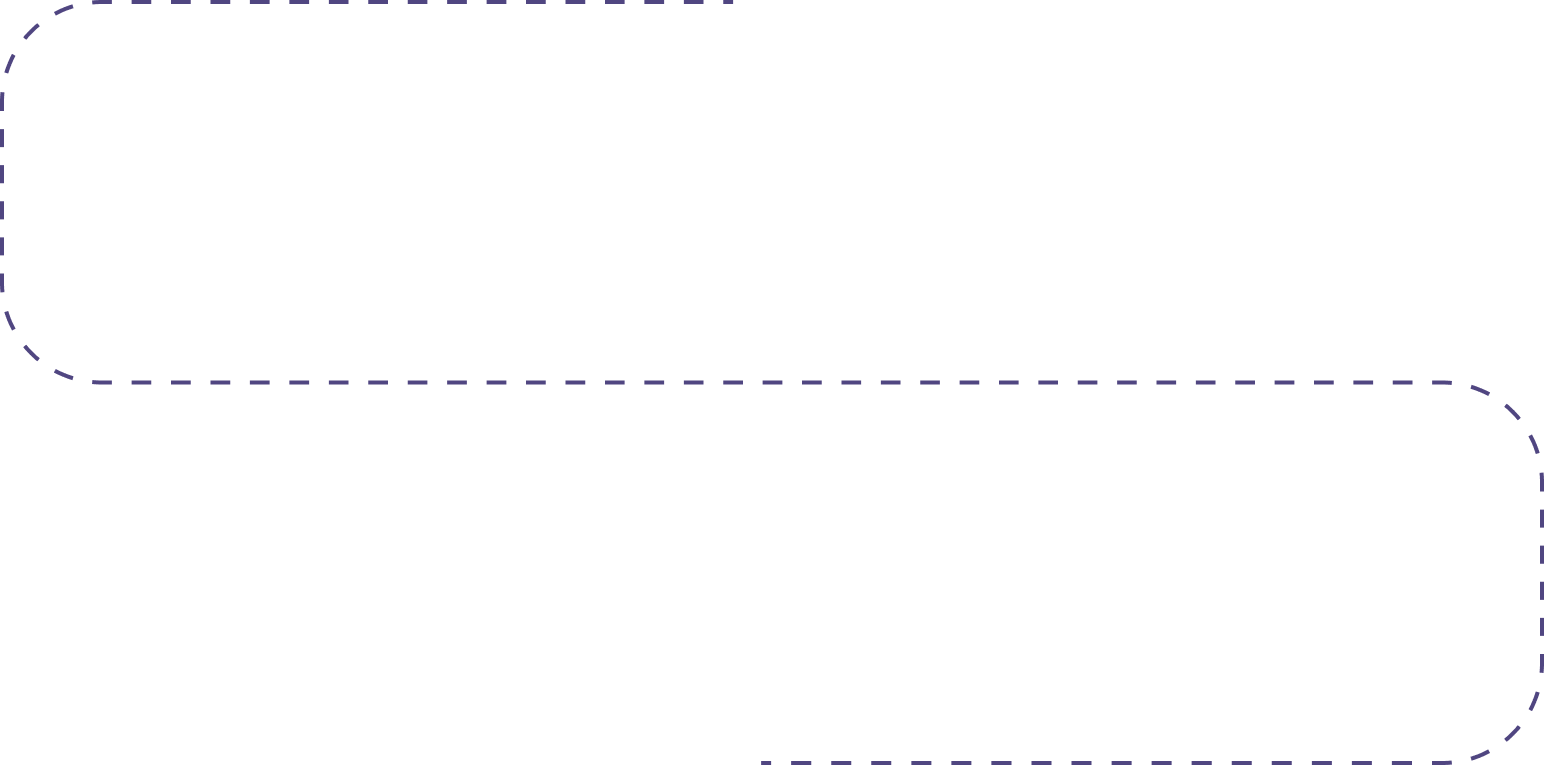
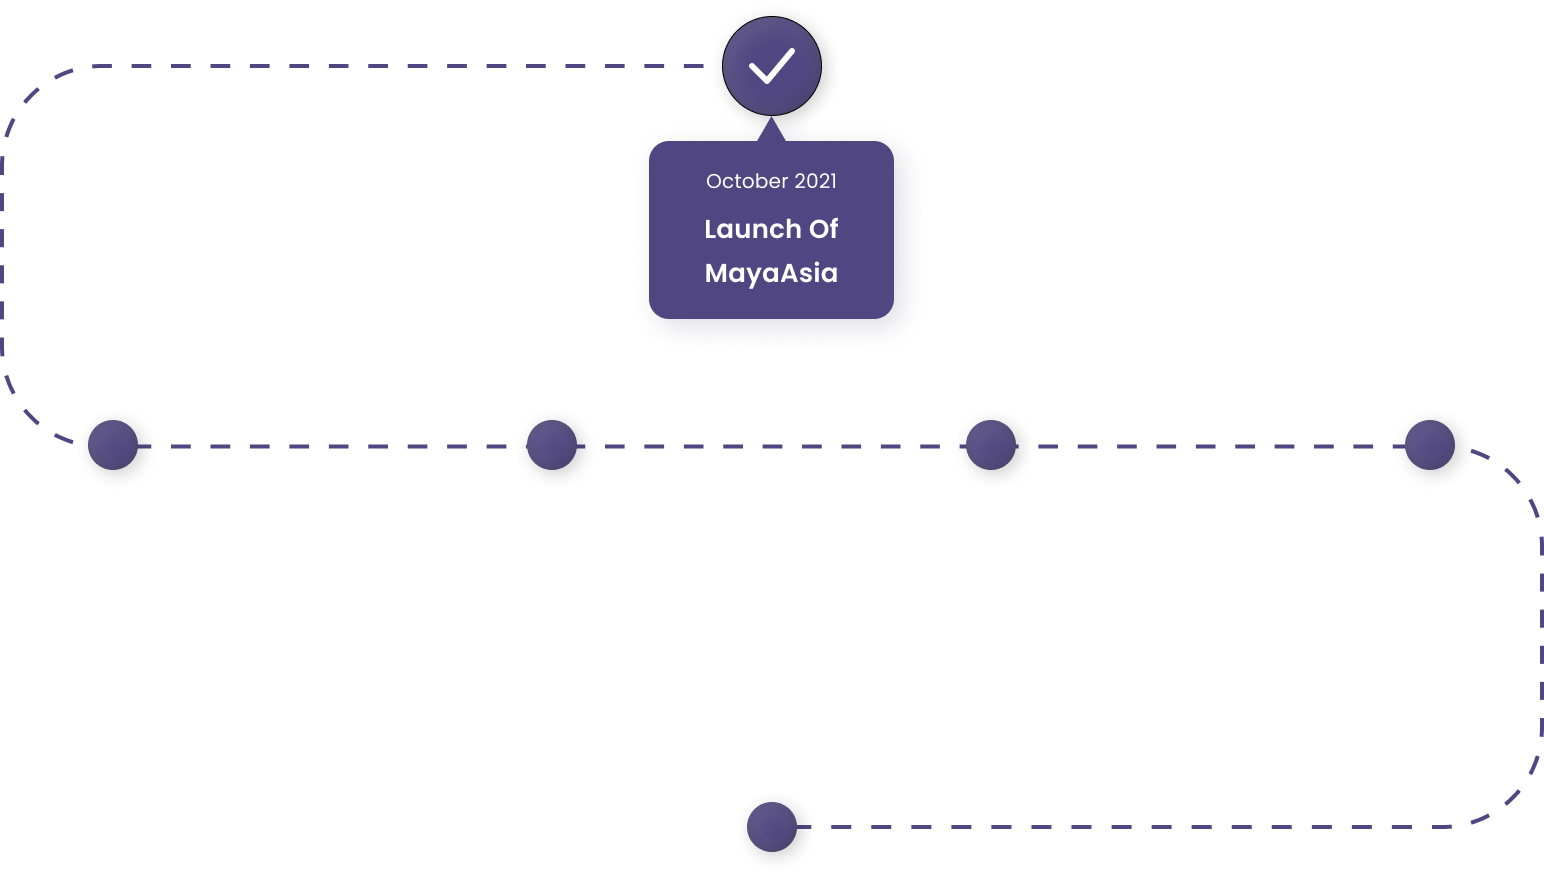
add positioning

diff --git a/frontend/index.html b/frontend/index.html
@@ -8,6 +8,13 @@
   <script src="https://cdn.tailwindcss.com"></script>
   <link rel="stylesheet" href="https://cdnjs.cloudflare.com/ajax/libs/font-awesome/5.13.0/css/all.min.css">
   <link href="https://fonts.googleapis.com/css2?family=Poppins&display=swap" rel="stylesheet">
+  <style>
+@media only screen and (max-width: 1450px) {
+    .sectiontwo{
+        background: none !important;
+    }
+}
+  </style>
 </head>
 <body>
 <section class="w-[100%]">
@@ -27,11 +34,11 @@
    </header>
    <main class="flex justify-center items-start w-[90%] m-[auto]">
      <div class="lg:flex-[40%] max-w-[731px]">
-<h1 class="lg:text-[50px] xlg:text-[74px] leading-[90px] mt-[120px] font-bold  font-[Poppins] ">Lorem ipsum dolor <br><span class="text-[#6433C4]">amet consectetur</span> <br>adipiscing elit.</h1>
+<h1 class="lg:text-[50px] xl:text-[74px] leading-[90px] mt-[120px] font-bold  font-[Poppins] ">Lorem ipsum dolor <br><span class="text-[#6433C4]">amet consectetur</span> <br>adipiscing elit.</h1>
 <p class="text-[20px] max-w-[731px] text-[#999999]">Lorem ipsum dolor sit amet, consectetur adipiscing elit. Ac amet, cursus tincidunt nullam ultricies dui elementum augue. Nunc fringilla risus molestie magna pretium neque tincidunt sed hendrerit. </p>
 <div class="flex mt-[100px]">
-  <button class="bg-[#6433C4] text-[16px] xlg:text-[20px] text-[#fff] font-[Poppins]  h-[50px] w-[200px] xlg:h-[70px] xlg:w-[267px] rounded-[10px]">Request for IDO</button>
-  <button class="flex justify-center items-center bg-[#fff] h-[50px] w-[200px] xlg:h-[70px] xlg:w-[267px] rounded"><div class="flex justify-center items-center h-[40px] w-[40px] xlg:h-[60px] xlg:w-[60px] border-2 border-[#000] rounded-[100px] mr-[20px]">
+  <button class="bg-[#6433C4] text-[16px] xl:text-[20px] text-[#fff] font-[Poppins]  h-[50px] w-[200px] xl:h-[70px] xl:w-[267px] rounded-[10px]">Request for IDO</button>
+  <button class="flex justify-center items-center bg-[#fff] h-[50px] w-[200px] xl:h-[70px] xl:w-[267px] rounded"><div class="flex justify-center items-center h-[40px] w-[40px] xl:h-[60px] xl:w-[60px] border-2 border-[#000] rounded-[100px] mr-[20px]">
   <i class="fa fa-play" aria-hidden="true"></i></div>
   Watch Demo
 </button>
@@ -40,28 +47,27 @@
      <div class="flex justify-center items-center">
        
        <img class="max-h-[700px] lg:max-h-[800px]  ml-[-40px]" src="./imgs/doctor.png" />
-       <div class="">
-         <div class="flex justify-center items-center mb-[60px] ">
-        <img class="mr-[10px]" src="./imgs/main1.png" />
+       <div class="mr-[10px] font-[Poppins] xl:flex flex-col justify-center items-start hidden">
+         <div class="flex justify-center items-center mb-10 max-w-[300px] ">
+        <img class="mr-[10px]  h-[90px] w-[90px]" src="./imgs/main1.png" />
         <span>
-        <p class="text-[30px] xlg:text-[40px] font-bold">900k +</p>
-        <span class="text-[16px] xlg:text-[21px] text-[#999999]">Lorem ipsum dolor sit</span>
+        <p class="text-[30px] xl:text-[30px] font-bold">900k +</p>
+        <span class=" text-[16px] xl:text-[18px] text-[#999999]">Lorem ipsum dolor sit</span>
       </span>
       </div>
 
-      <div class="flex justify-center items-center mb-[60px]">
-        <img class="mr-[10px]" src="./imgs/main1.png" />
+      <div class="flex justify-center items-center mb-10 max-w-[300px] ">
+        <img class="mr-[10px] h-[90px] w-[90px]" src="./imgs/main2.png" />
         <span>
-        <p class="text-[30px] xlg:text-[40px] font-bold">900k +</p>
-        <span class="text-[16px] xlg:text-[21px] text-[#999999]">Lorem ipsum dolor sit</span>
+        <p class="text-[30px] xl:text-[30px] font-bold">2k +</p>
+        <span class=" text-[16px] xl:text-[18px] text-[#999999]">Lorem ipsum </span>
       </span>
       </div>
-
-      <div class="flex justify-center items-center mb-[60px]">
-        <img class="mr-[10px]" src="./imgs/main1.png" />
+      <div class="flex justify-between items-center mb-10 max-w-[300px] ">
+        <img class="mr-[10px]  h-[90px] w-[90px]" src="./imgs/main1.png" />
         <span>
-        <p class="text-[30px] xlg:text-[40px] font-bold">900k +</p>
-        <span class="text-[16px] xlg:text-[21px] text-[#999999]">Lorem ipsum dolor sit</span>
+        <p class="text-[30px] xl:text-[30px] font-bold">900k +</p>
+        <span class=" text-[16px] xl:text-[18px] text-[#999999]">Lorem ipsum dolor sit</span>
       </span>
       </div>
 
@@ -70,33 +76,45 @@
    </main>
   </section>
 
-  <section>
+  <section >
     <div class="flex flex-col justify-center items-center">
     <h1 class="text-[40px] font-[Poppins] mt-[100px] lg:text-[60px] font-bold text-center">World’s number 1 blockchain<br> for healthcare    </h1>
-    <p class="lg:max-w-[800px] xlg:max-w-[1200px] text-[#999999] text-center">Lorem ipsum dolor sit amet, consectetur adipiscing elit. Dapibus ipsum ligula risus metus. Suspendisse consectetur posuere auctor mauris. In proin amet tempor luctus eu, ut cras aliquam. </p>
-    <button class="bg-[#6433C4] text-[16px] xlg:text-[20px] text-[#fff] font-[Poppins] mt-[30px]  h-[50px] w-[200px] xlg:h-[70px] xlg:w-[267px] rounded-[10px]">Request for IDO</button>
+    <p class="lg:max-w-[800px] xl:max-w-[1200px] text-[#999999] text-center">Lorem ipsum dolor sit amet, consectetur adipiscing elit. Dapibus ipsum ligula risus metus. Suspendisse consectetur posuere auctor mauris. In proin amet tempor luctus eu, ut cras aliquam. </p>
+    <button class="bg-[#6433C4] text-[16px] xl:text-[20px] text-[#fff] font-[Poppins] mt-[30px]  h-[50px] w-[200px] xl:h-[70px] xl:w-[267px] rounded-[10px]">Request for IDO</button>
   </div>
 
-  <div class="flex justify-between items-center ml-[20px] mr-[20px]">
-  <div class="flex flex-col justify-center items-center max-w-[395px]">
-    <img src="./imgs//sectiontwo1.png" />
-    <h2 class="text-[30px] xlg:text-[40px] font-bold">
+  <div class="flex justify-between items-center bg-no-repeat  bg-center max-w-[87%] m-[auto] sectiontwo" style="background-image: url('./imgs/p.png');">
+  <div class="flex flex-col justify-center items-center max-w-[395px] mt-[-50px] pr-[10px] lg:pr-[5px]  xl:pr-0 ">
+    <img class="" src="./imgs//sectiontwo1.png" />
+    <div class="flex flex-col justify-around items-center h-[150px] w-[220px] mt-[-50px] rounded-[20px]" style="background: rgba(0, 0, 0, 0.1);
+    backdrop-filter: blur(30px);">
+<h2 class="text-[18px] font-bold text-center font-[Poppins]">Everyday Data</h2>
+  <img src="./imgs/gr2.png" />  
+  </div>
+    <h2 class="text-[30px] xl:text-[40px] font-bold">
       Doctors
+    </h2>
+    
+    <p class="text-[18px] text-center">Lorem ipsum dolor sit amet, consectetur adipiscing elit. Euismod faucibus commodo cum facilisis tellus tempus. Penatibus elit condimentum id accumsan imperdiet. </p>
+  </div>
+
+  <div class="flex flex-col justify-center items-center max-w-[395px] pr-[10px] lg:pr-[5px]  xl:pr-0 ">
+    <img class="mt-[150px]" src="./imgs/section22.png" />
+    
+    <h2 class="text-[30px] xl:text-[40px] mt-[60px] font-bold">
+      Platform
     </h2>
     <p class="text-[18px] text-center">Lorem ipsum dolor sit amet, consectetur adipiscing elit. Euismod faucibus commodo cum facilisis tellus tempus. Penatibus elit condimentum id accumsan imperdiet. </p>
   </div>
 
-  <div class="flex flex-col justify-center items-center max-w-[395px] ">
-    <img class="mt-[150px]" src="./imgs//sectiontwo1.png" />
-    <h2 class="text-[30px] xlg:text-[40px] font-bold">
-      Doctors
-    </h2>
-    <p class="text-[18px] text-center">Lorem ipsum dolor sit amet, consectetur adipiscing elit. Euismod faucibus commodo cum facilisis tellus tempus. Penatibus elit condimentum id accumsan imperdiet. </p>
-  </div>
-
-  <div class="flex flex-col justify-center items-center max-w-[395px]">
+  <div class="flex flex-col justify-center items-center max-w-[395px] mt-[-50px] ">
     <img src="./imgs//sectiontwo1.png" />
-    <h2 class="text-[30px] xlg:text-[40px] font-bold">
+    <div class="flex flex-col justify-around items-center h-[150px] w-[220px] mt-[-50px] rounded-[20px]" style="background: rgba(0, 0, 0, 0.1);
+    backdrop-filter: blur(30px);">
+<h2 class="text-[18px] font-bold text-center font-[Poppins]">Everyday Data</h2>
+  <img src="./imgs/gr2.png" />  
+  </div>
+    <h2 class="text-[30px] xl:text-[40px] font-bold">
       Doctors
     </h2>
     <p class="text-[18px] text-center">Lorem ipsum dolor sit amet, consectetur adipiscing elit. Euismod faucibus commodo cum facilisis tellus tempus. Penatibus elit condimentum id accumsan imperdiet. </p>
@@ -105,7 +123,7 @@
 
   </section>
 
-  <section class="flex justify-around h-[800px] bg-[#000] mt-[100px] bg-no-repeat bg-center" style="background-image: url('./imgs/c.png');">
+  <section class="flex justify-around items-center h-[850px] bg-[#000] mt-[100px] bg-no-repeat bg-center" style="background-image: url('./imgs/c.png');">
    <div class="ml-[100px]  max-w-[810px]  font-[Poppins]">
       <h1 class="text-[60px] font-[700] text-[#fff] pt-[100px]">What is Maya Blockchain?</h1>
       <p class="text-[#C4C4C4] text-[20px]">Lorem ipsum dolor sit amet, consectetur adipiscing elit. Dapibus ipsum ligula risus metus. Suspendisse consectetur posuere auctor mauris. </p>
@@ -116,21 +134,21 @@
       <div class="flex justify-center items-center my-4"> <div class="flex justify-center items-center h-[44px] w-[44px] bg-[#6433C4] rounded-[10px] mr-2"><img src="./imgs/listicon.png" /></div>Lorem ipsum dolor sit amet, consectetur adipiscing elit.</div>
       <div class="flex justify-center items-center my-4"> <div class="flex justify-center items-center h-[44px] w-[44px] bg-[#6433C4] rounded-[10px] mr-2"><img src="./imgs/listicon.png" /></div>Lorem ipsum dolor sit amet, consectetur adipiscing elit.</div>  
     </div>
-    <button class="bg-transparent outline-none text-[16px] xlg:text-[20px] text-[#fff] mt-[50px]">Request for IDO<i class="fa fa-chevron-right ml-2 text-[16px] xlg:text-[20px]"></i></button>
+    <button class="bg-transparent outline-none text-[16px] xl:text-[20px] text-[#fff] mt-[50px] pb-[20px]">Request for IDO<i class="fa fa-chevron-right ml-2 text-[16px] xl:text-[20px]"></i></button>
    </div>
    <div class="mt-[100px]">
-     <img class="max-h-[90%] ml-[20px] pr-[20px]" src="./imgs/phone.png" />
+     <img class="max-h-[90%] w-[90%] ml-[20px] pr-[20px] bg-no-repeat bg-contain bg-center" src="./imgs/phone.png" />
    </div>
   </section>
 
   <section>
     <div class="flex flex-col justify-center items-center">
     <h1 class="text-[40px] font-[Poppins] max-w-[847px] mt-[100px] lg:text-[60px] font-[700] text-center tracking-[-2px]">We Provide You With The Benefits You Can’t Imagine </h1>
-    <p class="lg:max-w-[800px] xlg:max-w-[1000px] text-[#999999] text-center">Lorem ipsum dolor sit amet, consectetur adipiscing elit. Morbi orci morbi lacus tellus eu in. Lorem tincidunt viverra volutpat platea et purus enim mollis habitant. Tincidunt nullam eget vel nisi. </p>
+    <p class="lg:max-w-[800px] xl:max-w-[1000px] text-[#999999] text-center">Lorem ipsum dolor sit amet, consectetur adipiscing elit. Morbi orci morbi lacus tellus eu in. Lorem tincidunt viverra volutpat platea et purus enim mollis habitant. Tincidunt nullam eget vel nisi. </p>
     <div class="flex justify-center items-start  max-w-[90%] mt-[50px]" >
       <div class="flex-[50%] h-[575px] w-[800px] rounded-[10px]" style="background-image: url('./imgs/v1.png');">
       </div>
-      <div>
+      <div class="flex-[50%]">
         <div class="flex mb-[20px] ml-[20px]">
           <div class="h-[280px] w-[350px] rounded-[10px] mr-[20px]" style="background-image: url('./imgs/v2.png');"></div>
           <div class="h-[280px] w-[350px] rounded-[10px] mr-[20px]" style="background-image: url('./imgs/v2.png');"></div>
@@ -146,11 +164,12 @@
 
   <section class="flex justify-start h-[800px] bg-[#000] mt-[100px] bg-no-repeat bg-left" style="background-image: url('./imgs/c.png');">
     <div class="pl-[100px] pt-[100px] max-w-[850px] font-[Poppins]">
-         <p class="text-[18px] xlg:text-[20px] text-[#fff] font-bold ">Lorem ipsum dolor sit amet</p>
-         <h1 class="text-[50px] xlg:text-[60px] leading-[78px] text-[#fff] font-bold mt-[100px]">Maya Token sale to launch between May 22 to 30</h1>
+         <p class="text-[18px] xl:text-[20px] text-[#fff] font-bold ">Lorem ipsum dolor sit amet</p>
+         <h1 class="text-[50px] xl:text-[60px] leading-[78px] text-[#fff] font-bold mt-[100px]">Maya Token sale to launch between May 22 to 30</h1>
          <p class="text-[20px] text-[#999999]">Lorem ipsum dolor sit amet, consectetur adipiscing elit. Velit blandit enim lorem leo habitasse lorem ac nulla. Pellentesque quis sit aenean faucibus. Nullam non sit fermentum eu neque tincidunt dui. Ornare et nunc netus morbi commodo justo sed. Blandit odio quis scelerisque.</p>
          <button class="mt-[100px] bg-transparent outline-none border-2 border-[#fff] py-2 px-6 text-[20px] text-[#fff] font-semibold rounded-[10px]">Subscribe to Newsletter</button>
     </div>
+    <div class="flex-[50%] h-[100%] w-[50%] bg-no-repeat bg-contain bg-center" style="background-image: url('./imgs/bitcoin.png');"></div>
   </section>
 
   <section class="mt-[100px]">
@@ -158,8 +177,7 @@
     <p class="text-[#6433C4] text-[20px] font-[500]">The Roadmap</p>
     <h1 class="text-[60px] font-[700]">The Timeline</h1>
     <p class="max-w-[900px] text-[#999999] text-center">Lorem ipsum dolor sit amet, consectetur adipiscing elit. Velit blandit enim lorem leo habitasse lorem ac nulla. Pellentesque quis sit aenean faucibus. </p>
-    <div class="h-[700px] w-[90%] mt-[80px]">
-      <img class="h-[100%] w-[100%]" src="./imgs/map.png" />
+    <div class="h-[900px] w-[90%] mt-[80px] bg-no-repeat bg-contain bg-center" style="background-image: url('./imgs/map.png');">
     </div>
   </div>
   </section>
@@ -182,10 +200,10 @@
    <div class="flex flex-col justify-center items-start">
      <div>
        <img src="./imgs/logow.png" />
-       <p class="text-[#999999] text-[18px] xlg:text-[20px] mt-[20px] ml-[20px]">#1 Growth Marketing Toolkit for Emails,<br> Leads, Data & Outreach.</p>
+       <p class="text-[#999999] text-[18px] xl:text-[20px] mt-[20px] ml-[20px]">#1 Growth Marketing Toolkit for Emails,<br> Leads, Data & Outreach.</p>
      </div>
      <div class="mt-[80px]">
-       <h1 class="text-[24px] xlg:text-[30px] text-[#fff]">Connect with us</h1>
+       <h1 class="text-[24px] xl:text-[30px] text-[#fff]">Connect with us</h1>
        <div class="flex justify-between items-center mt-[10px]">
        <img src="./imgs/in.png" />
        <img src="./imgs/in.png" />
@@ -196,27 +214,27 @@
      </div>
    </div>
    <div>
-     <h1 class="text-[#fff] text-[24px] xlg:text-[30px]">Important Links</h1>
-     <p class="text-[#999999] text-[18px] xlg:text-[24px]  mt-[10px]">About</p>
-     <p class="text-[#999999]  text-[18px] xlg:text-[24px] mt-[8px]">Doctors Page</p>
-     <p class="text-[#999999]  text-[18px] xlg:text-[24px] mt-[8px]">Patients Page</p>
-     <p class="text-[#999999]  text-[18px] xlg:text-[24px] mt-[8px]">Toekn Sale</p>
+     <h1 class="text-[#fff] text-[24px] xl:text-[30px]">Important Links</h1>
+     <p class="text-[#999999] text-[18px] xl:text-[24px]  mt-[10px]">About</p>
+     <p class="text-[#999999]  text-[18px] xl:text-[24px] mt-[8px]">Doctors Page</p>
+     <p class="text-[#999999]  text-[18px] xl:text-[24px] mt-[8px]">Patients Page</p>
+     <p class="text-[#999999]  text-[18px] xl:text-[24px] mt-[8px]">Toekn Sale</p>
    </div>
 
    <div>
-    <h1 class="text-[#fff] text-[24px] xlg:text-[30px]">Important Links</h1>
-    <p class="text-[#999999] text-[18px] xlg:text-[24px]  mt-[10px]">About</p>
-    <p class="text-[#999999]  text-[18px] xlg:text-[24px] mt-[8px]">Doctors Page</p>
-    <p class="text-[#999999]  text-[18px] xlg:text-[24px] mt-[8px]">Patients Page</p>
-    <p class="text-[#999999]  text-[18px] xlg:text-[24px] mt-[8px]">Toekn Sale</p>
+    <h1 class="text-[#fff] text-[24px] xl:text-[30px]">Important Links</h1>
+    <p class="text-[#999999] text-[18px] xl:text-[24px]  mt-[10px]">About</p>
+    <p class="text-[#999999]  text-[18px] xl:text-[24px] mt-[8px]">Doctors Page</p>
+    <p class="text-[#999999]  text-[18px] xl:text-[24px] mt-[8px]">Patients Page</p>
+    <p class="text-[#999999]  text-[18px] xl:text-[24px] mt-[8px]">Toekn Sale</p>
   </div>
 
   <div>
-    <h1 class="text-[#fff] text-[24px] xlg:text-[30px]">Important Links</h1>
-    <p class="text-[#999999] text-[18px] xlg:text-[24px]  mt-[10px]">About</p>
-    <p class="text-[#999999]  text-[18px] xlg:text-[24px] mt-[8px]">Doctors Page</p>
-    <p class="text-[#999999]  text-[18px] xlg:text-[24px] mt-[8px]">Patients Page</p>
-    <p class="text-[#999999]  text-[18px] xlg:text-[24px] mt-[8px]">Toekn Sale</p>
+    <h1 class="text-[#fff] text-[24px] xl:text-[30px]">Important Links</h1>
+    <p class="text-[#999999] text-[18px] xl:text-[24px]  mt-[10px]">About</p>
+    <p class="text-[#999999]  text-[18px] xl:text-[24px] mt-[8px]">Doctors Page</p>
+    <p class="text-[#999999]  text-[18px] xl:text-[24px] mt-[8px]">Patients Page</p>
+    <p class="text-[#999999]  text-[18px] xl:text-[24px] mt-[8px]">Toekn Sale</p>
   </div>
 </div>
 </footer>
